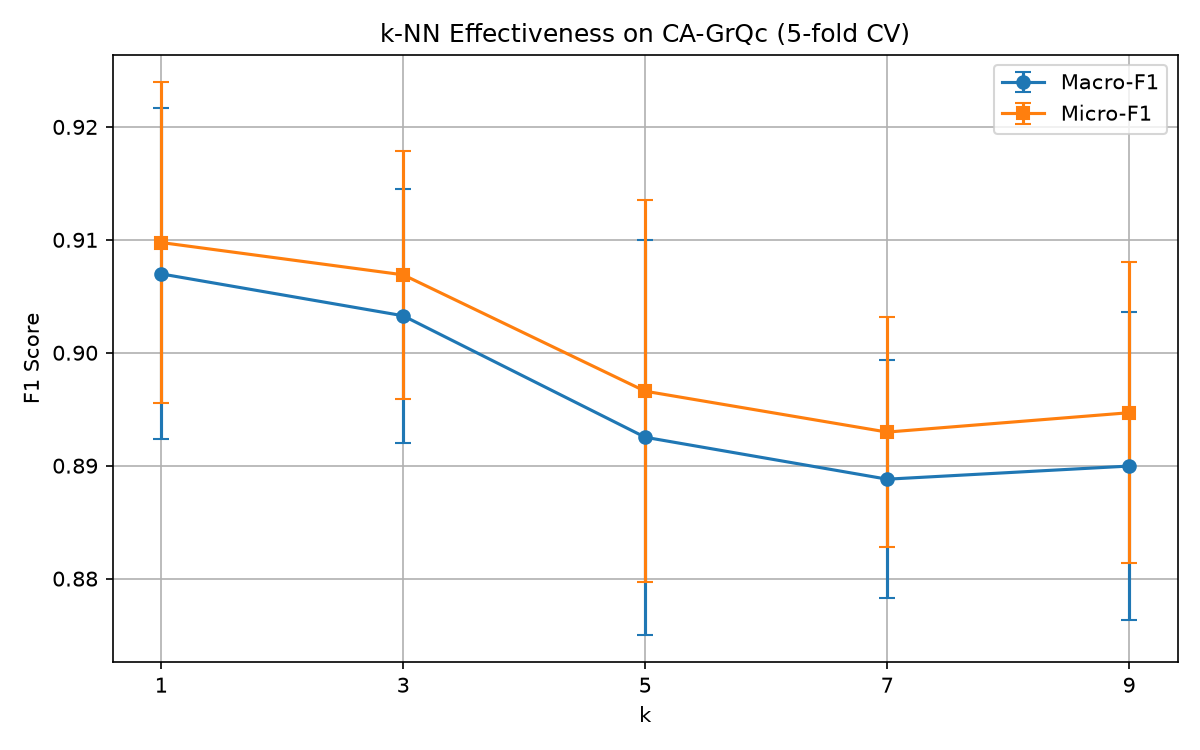
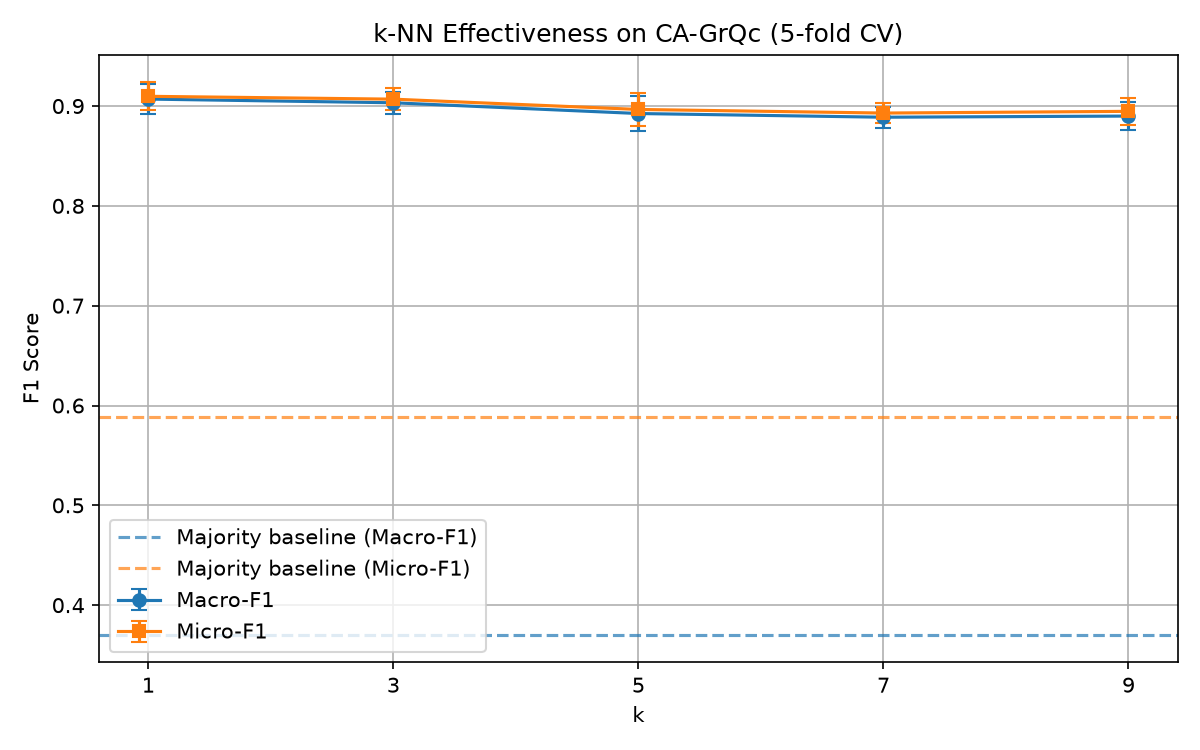
Add baseline to graph model evaluation

diff --git a/knn_classifier.py b/knn_classifier.py
@@ -251,6 +251,32 @@ def evaluate_cross_validation(X, y, k_values, n_splits=5, seed=42):
     return results
 
 
+def evaluate_majority_baseline(y, n_splits=5, seed=42):
+    """Evaluate a train-fold majority classifier on the same stratified folds."""
+    y = np.asarray(y)
+    folds = stratified_k_fold_indices(y, n_splits=n_splits, seed=seed)
+    macro_folds = []
+    micro_folds = []
+
+    for train_idx, test_idx in folds:
+        classes, counts = np.unique(y[train_idx], return_counts=True)
+        majority_class = classes[np.argmax(counts)]
+        predictions = np.full(len(test_idx), majority_class)
+        macro_f1, micro_f1 = compute_f1(
+            y[test_idx].tolist(),
+            predictions.tolist(),
+        )
+        macro_folds.append(macro_f1)
+        micro_folds.append(micro_f1)
+
+    return {
+        'macro_mean': float(np.mean(macro_folds)),
+        'macro_std': float(np.std(macro_folds)),
+        'micro_mean': float(np.mean(micro_folds)),
+        'micro_std': float(np.std(micro_folds)),
+    }
+
+
 if __name__ == '__main__':
     os.makedirs(RESULTS_DIR, exist_ok=True)
 
@@ -269,6 +295,7 @@ if __name__ == '__main__':
     print("\n--- Effectiveness Test (CA-GrQc, 5-fold stratified CV) ---")
     k_values = [1, 3, 5, 7, 9]
     cv_results = evaluate_cross_validation(X, y, k_values, n_splits=5, seed=42)
+    baseline = evaluate_majority_baseline(y, n_splits=5, seed=42)
     macro_scores = [result['macro_mean'] for result in cv_results]
     macro_stds = [result['macro_std'] for result in cv_results]
     micro_scores = [result['micro_mean'] for result in cv_results]
@@ -289,6 +316,16 @@ if __name__ == '__main__':
                 result['time_mean'],
             )
         )
+    print(
+        "Majority baseline: Macro-F1=%.4f +/- %.4f, "
+        "Micro-F1=%.4f +/- %.4f"
+        % (
+            baseline['macro_mean'],
+            baseline['macro_std'],
+            baseline['micro_mean'],
+            baseline['micro_std'],
+        )
+    )
 
     # plot effectiveness
     fig, ax = plt.subplots(figsize=(8, 5))
@@ -307,6 +344,20 @@ if __name__ == '__main__':
         fmt='s-',
         capsize=4,
         label='Micro-F1',
+    )
+    ax.axhline(
+        baseline['macro_mean'],
+        color='tab:blue',
+        linestyle='--',
+        alpha=0.7,
+        label='Majority baseline (Macro-F1)',
+    )
+    ax.axhline(
+        baseline['micro_mean'],
+        color='tab:orange',
+        linestyle='--',
+        alpha=0.7,
+        label='Majority baseline (Micro-F1)',
     )
     ax.set_xticks(k_values)
     ax.set_xlabel('k')

diff --git a/tests/test_knn_classifier.py b/tests/test_knn_classifier.py
@@ -7,6 +7,7 @@ from knn_classifier import (
     DATA_DIR,
     bfs_sample,
     evaluate_cross_validation,
+    evaluate_majority_baseline,
     extract_features_fast,
     knn_predict,
     load_graph,
@@ -85,6 +86,16 @@ class KnnClassifierTests(unittest.TestCase):
             self.assertAlmostEqual(result['macro_mean'], 1.0)
             self.assertAlmostEqual(result['micro_mean'], 1.0)
             self.assertGreaterEqual(result['time_mean'], 0.0)
+
+    def test_majority_baseline_is_fit_on_each_training_fold(self):
+        labels = np.array([0] * 12 + [1] * 8)
+
+        result = evaluate_majority_baseline(labels, n_splits=4, seed=7)
+
+        self.assertAlmostEqual(result['macro_mean'], 0.375)
+        self.assertAlmostEqual(result['macro_std'], 0.0)
+        self.assertAlmostEqual(result['micro_mean'], 0.6)
+        self.assertAlmostEqual(result['micro_std'], 0.0)
 
     def test_knn_predicts_nearest_class(self):
         train_features = np.array([[0.0], [0.2], [0.8], [1.0]])

diff --git a/README.md b/README.md
@@ -34,6 +34,7 @@ edges, matching the graph that the classifier evaluates.
 - 🧠 **k-NN from scratch** — No scikit-learn; core algorithm hand-implemented
 - 📐 **Leakage-aware graph features** — Clustering coefficient and average neighbor degree; the label-defining node degree is never an input feature
 - 📊 **Stratified cross-validation** — Reproducible five-fold evaluation for k = 1, 3, 5, 7, 9
+- 🎯 **Majority-class baseline** — Fold-consistent reference scores show whether the model beats class prevalence
 - 📈 **Evaluation metrics** — Mean Macro-F1 and Micro-F1 with fold-to-fold variability
 - ⏱ **Efficiency benchmarks** — Mean inference time per fold with variability
 - 📉 **Scalability testing** — Linear-time BFS sampling and a low-cost, non-label feature for the optional large dataset
@@ -55,6 +56,11 @@ with seed 42. Values are the mean ± one standard deviation across folds.
 | 7 | 0.8888 ± 0.0105 | 0.8930 ± 0.0102 |
 | 9 | 0.8900 ± 0.0137 | 0.8947 ± 0.0133 |
 
+The train-fold majority-class baseline scores **0.3705 ± 0.0001 Macro-F1**
+and **0.5885 ± 0.0003 Micro-F1**. The best tested model (`k=1`) improves
+on that reference by 0.5365 Macro-F1 and 0.3213 Micro-F1, making the model's
+value visible instead of presenting its scores without context.
+
 ### Effectiveness (F1 Scores)
 <img src="results/effectiveness.png" width="600"/>
 
@@ -70,7 +76,9 @@ the scalability benchmark uses average neighbor degree alone to keep feature
 extraction inexpensive. Neither path includes the node degree that defines the
 target, avoiding direct target leakage. The main results use deterministic,
 stratified five-fold cross-validation, with normalization fit independently on
-each training fold. Error bars show one standard deviation across folds.
+each training fold. The majority class is also selected independently from each
+training fold. Error bars show one standard deviation across folds, and dashed
+lines in the effectiveness chart show the baseline scores.
 Runtime values are machine-dependent.
 
 This is a transductive graph evaluation: features are computed from the full
@@ -119,9 +127,9 @@ python -m unittest discover -s tests -v
 ```
 
 The tests cover dataset metadata, the leakage guard, BFS sampling, deterministic
-stratification, fold coverage, cross-validation summaries, and the hand-written
-k-NN predictor. GitHub Actions runs the same offline suite on Python 3.10 and
-3.12.
+stratification, fold coverage, cross-validation summaries, majority-baseline
+evaluation, and the hand-written k-NN predictor. GitHub Actions runs the same
+offline suite on Python 3.10 and 3.12.
 
 ---
 
